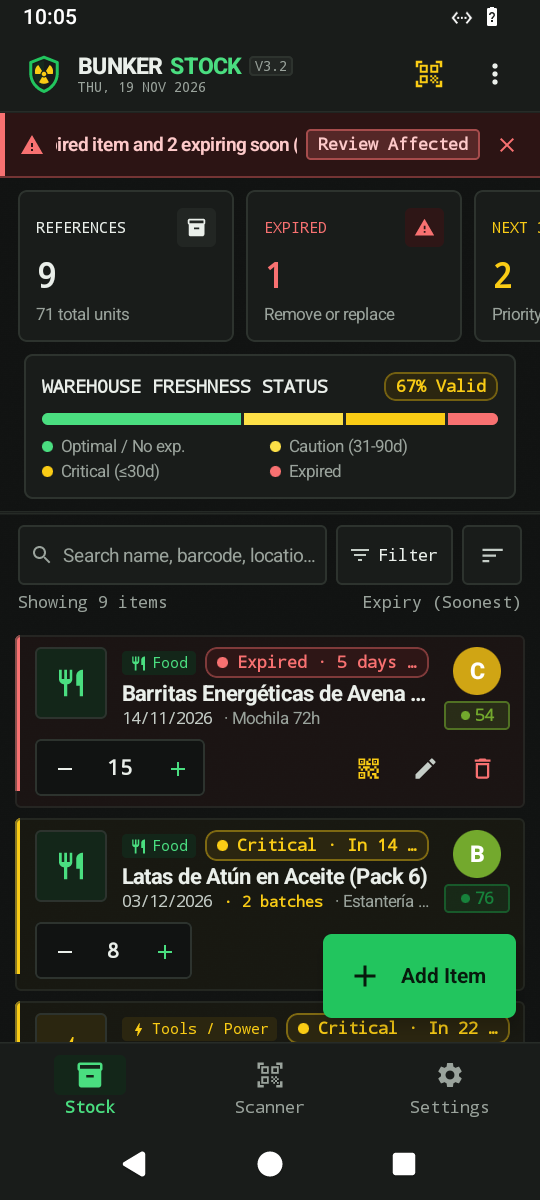
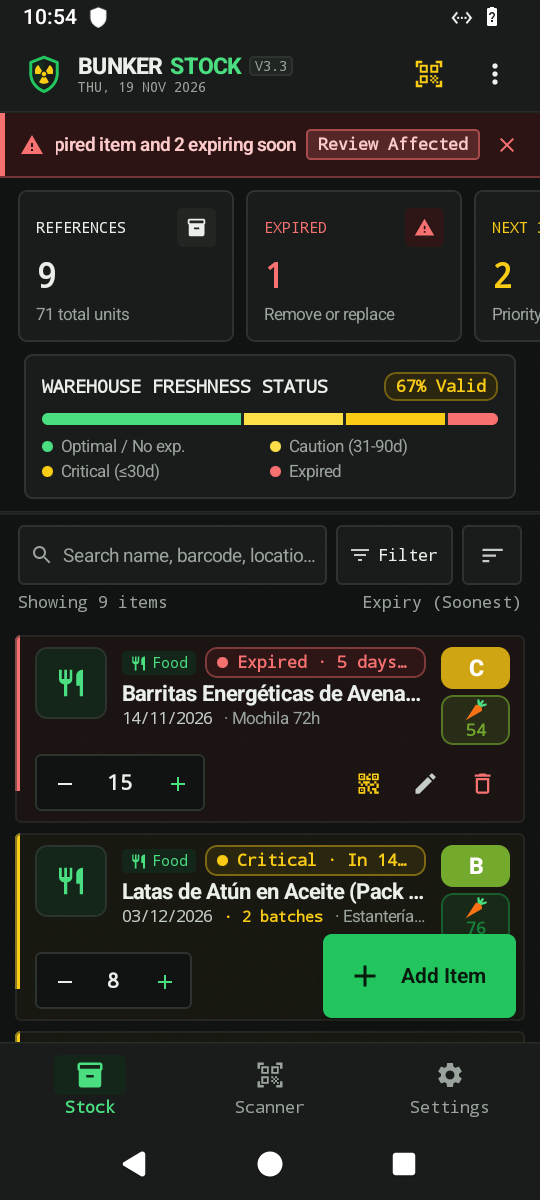
docs: v3.3 screenshots and README

diff --git a/README.md b/README.md
@@ -67,7 +67,7 @@
 
 ## Download & Install
 
-Grab the latest signed release APK from **[GitHub Releases](https://github.com/Emefedez/bunker-stock-android/releases/latest)** (`BunkerStock-v3.2.apk`). All releases are signed with a persistent keystore so new versions install seamlessly in-place.
+Grab the latest signed release APK from **[GitHub Releases](https://github.com/Emefedez/bunker-stock-android/releases/latest)** (`BunkerStock-v3.3.apk`). All releases are signed with a persistent keystore so new versions install seamlessly in-place.
 
 ## Build & Test
 
